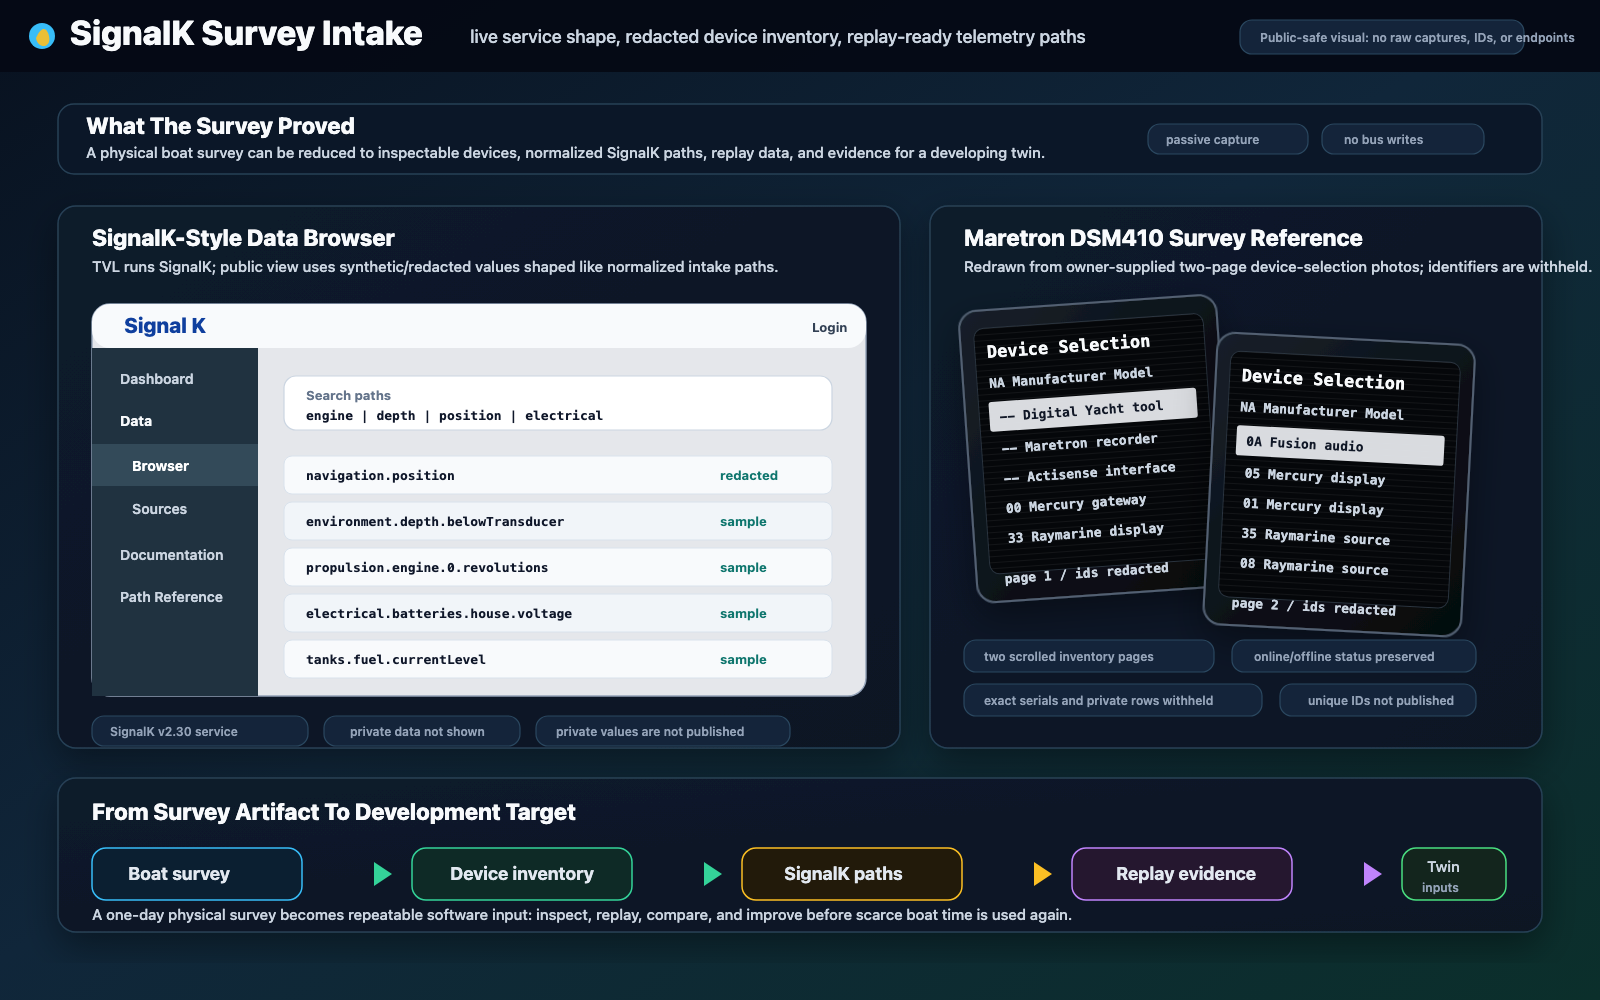
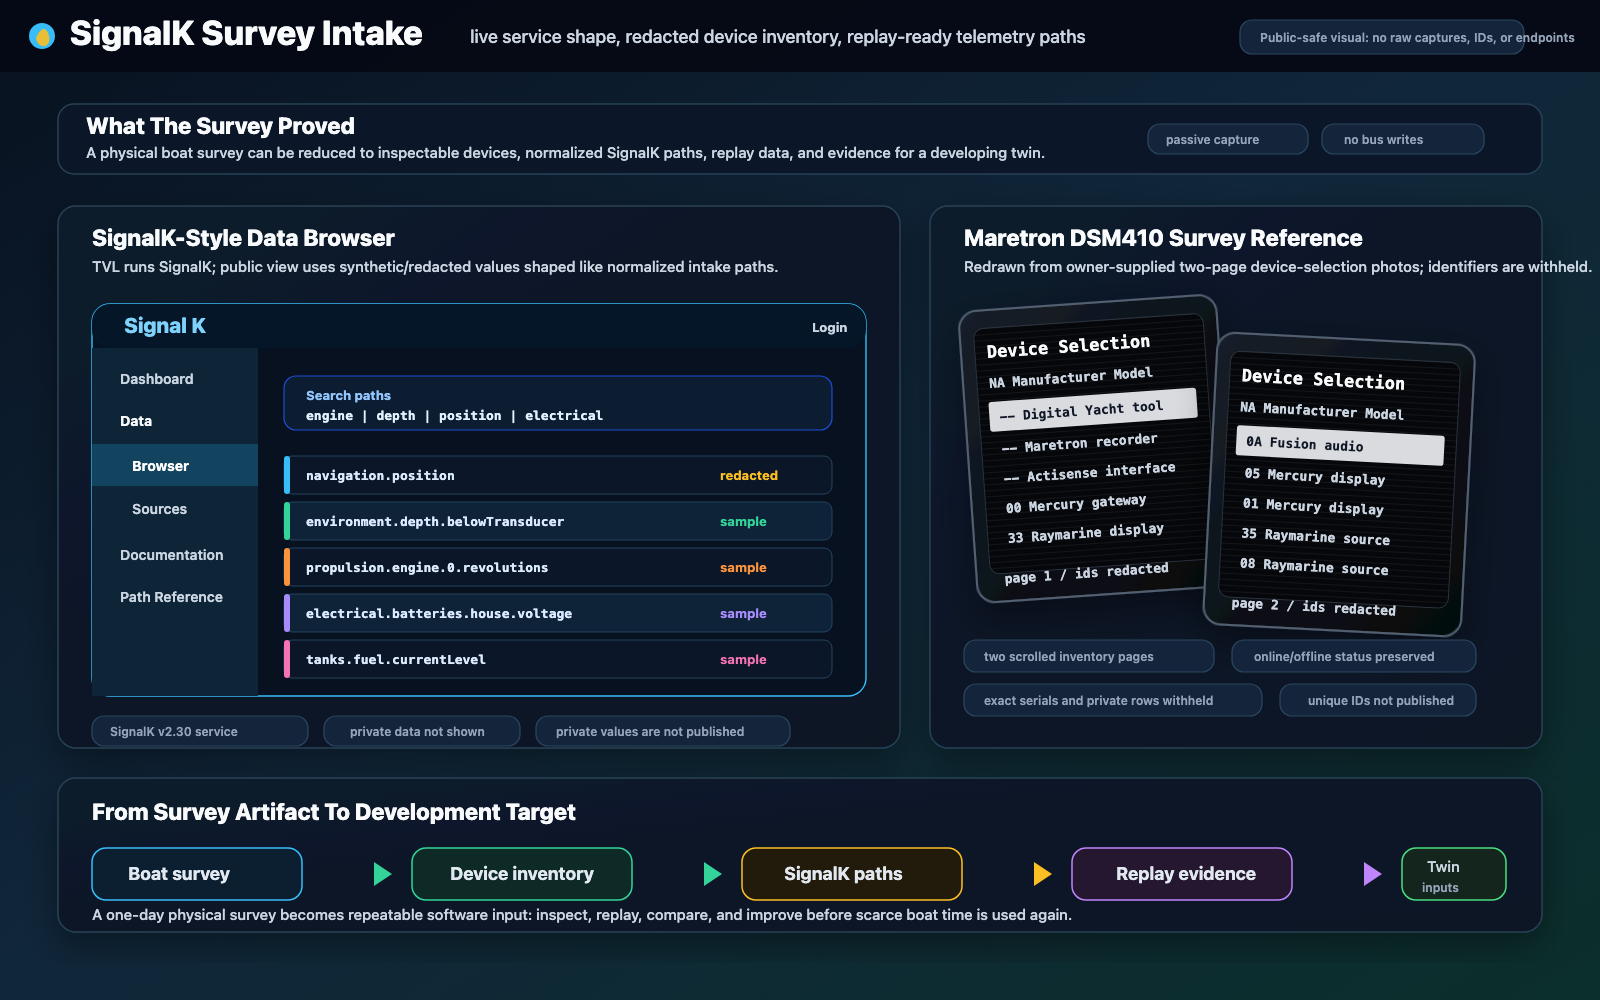
Refine README telemetry and SignalK evidence visual

Changed region(s): [[0.0312, 0.279, 0.5625, 0.713]]

diff --git a/README.md b/README.md
@@ -72,7 +72,7 @@ This repository does not claim unattended autonomous docking. It does not
 publish live vessel-control code, actuator wiring, raw capture files, endpoint
 details, secrets, or enough operational detail to reproduce the private system.
 
-Read [scope-and-safety.md](docs/scope-and-safety.md) for the public/private
+Read [safety boundary](docs/scope-and-safety.md) for the public/private
 boundary and [evidence.md](docs/evidence.md) for the evidence posture.
 
 ## How It Works
@@ -121,12 +121,12 @@ staged architecture, delivery pipeline, and technical breadcrumbs.
   <tr>
     <td width="33%">
       <a href="docs/scope-and-safety.md">
-        <img src="assets/diagrams/safety-boundary.png" alt="Scope and safety thumbnail" width="240">
+        <img src="assets/diagrams/safety-boundary.png" alt="Safety boundary thumbnail" width="240">
       </a>
       <br>
-      <a href="docs/scope-and-safety.md"><strong>Scope and safety</strong></a>
+      <a href="docs/scope-and-safety.md"><strong>Safety boundary</strong></a>
       <br>
-      Public scope, non-claims, and the physical authority boundary.
+      What is safe, private, and not claimed.
     </td>
     <td width="33%">
       <a href="docs/system-platform.md">
@@ -148,6 +148,21 @@ staged architecture, delivery pipeline, and technical breadcrumbs.
     </td>
   </tr>
 </table>
+
+## Sample Telemetry
+
+Public demos use synthetic telemetry shaped like normalized SignalK paths. The
+values below are not from a real vessel, marina, route, customer, or field
+session; they exist so screenshots, parsers, and dashboard examples can be
+shown without publishing private telemetry.
+
+```csv
+timestamp,source,path,value,unit
+2026-01-01T12:00:00Z,synthetic,electrical.batteries.house.voltage,12.74,V
+2026-01-01T12:00:01Z,synthetic,environment.depth.belowTransducer,4.8,m
+```
+
+Full sample: [sample-telemetry.csv](demos/synthetic-nmea/sample-telemetry.csv).
 
 ## Why It Matters
 
@@ -246,7 +261,7 @@ conversation you want to have.
 | Story Beat | Reader Question | Supporting Pages |
 | --- | --- | --- |
 | Why read this | What problem makes this worth attention? | [problem-and-opportunity.md](docs/problem-and-opportunity.md) |
-| What this is | What is public, what is private, and what is not being claimed? | [scope-and-safety.md](docs/scope-and-safety.md), [evidence.md](docs/evidence.md), [synthetic demo data](demos/synthetic-nmea/) |
+| What this is | What is public, what is private, and what is not being claimed? | [safety boundary](docs/scope-and-safety.md), [evidence.md](docs/evidence.md), [sample telemetry](#sample-telemetry) |
 | How it works | What is the system shape and technical approach? | [system-platform.md](docs/system-platform.md) |
 | Why it matters | Why is the evidence/control plane ahead of assistive behavior? | [agentic-engineering.md](docs/agentic-engineering.md), [evidence.md](docs/evidence.md) |
 | Where it is going | What is the capability path and future business hypothesis? | [roadmap-and-business.md](docs/roadmap-and-business.md) |

diff --git a/docs/evidence.md b/docs/evidence.md
@@ -74,7 +74,7 @@ are intentionally omitted.
 
 ## Public Demo Data
 
-The sample under [demos/synthetic-nmea](../demos/synthetic-nmea/) is synthetic.
-It is shaped like normalized marine telemetry and supports the public-safe
-SignalK-style visual above, but is not from a real vessel, marina, route,
-customer, or field session.
+The [sample telemetry](../README.md#sample-telemetry) in the README is
+synthetic. It is shaped like normalized marine telemetry and supports the
+public-safe SignalK-style visual above, but is not from a real vessel, marina,
+route, customer, or field session.
